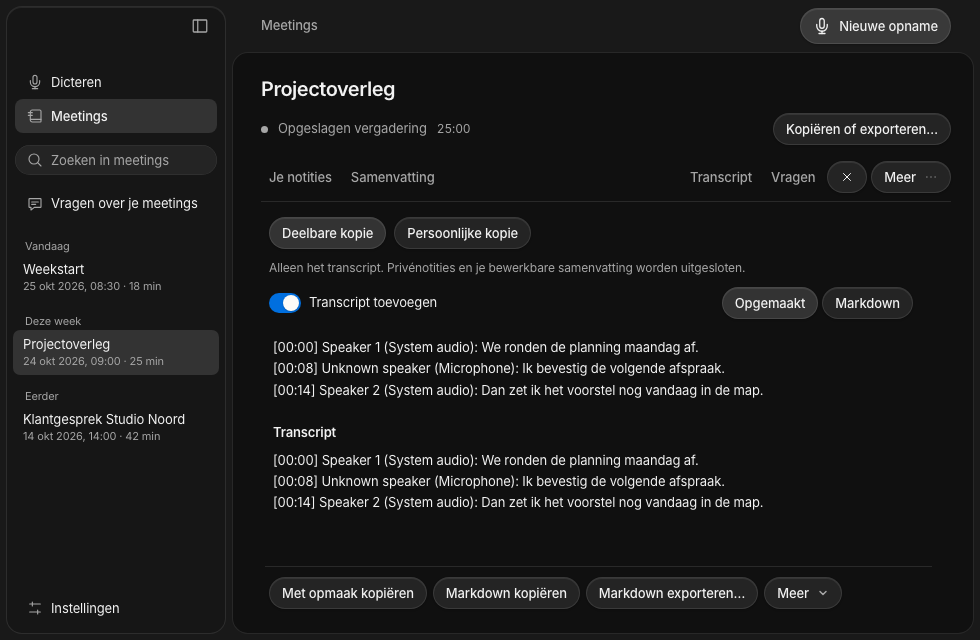
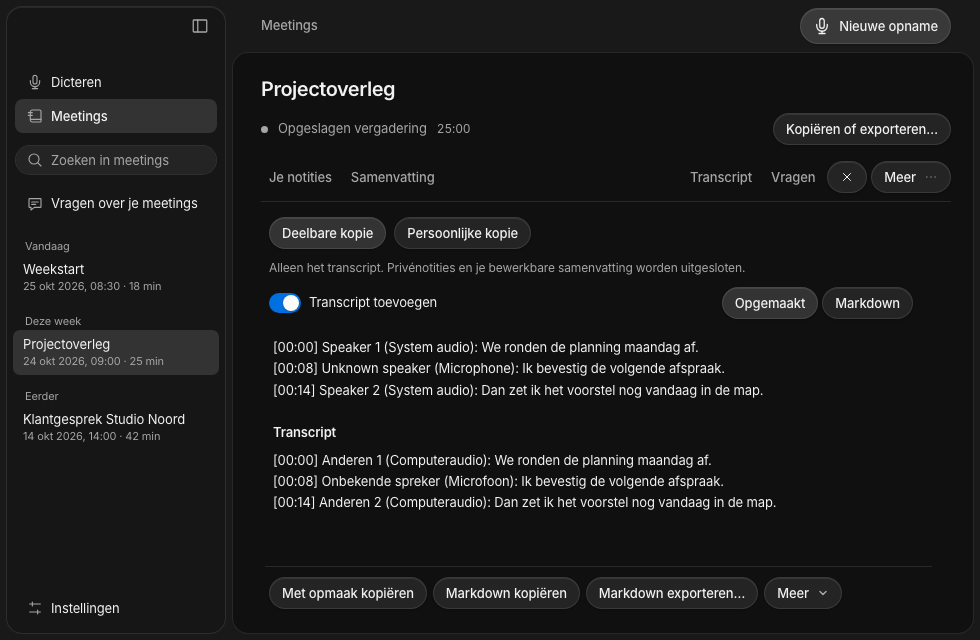
docs: retain PR review fixes and fresh Preview evidence
Record localized export evidence and deterministic CI fixture repair without replacing earlier native receipts.

Tested: Core/frontend/backend/mobile checks, export captures, personal Preview verification and fixture stress.
Scope-risk: narrow
Confidence: high

Changed region(s): [[0.3367, 0.6875, 0.7959, 0.8125]]

diff --git a/pr-169/evidence.md b/pr-169/evidence.md
@@ -1,3 +1,39 @@
+# Final PR review evidence
+
+Merge review head: `672533113f70cf21b7c9274a758d1a688f8b9cf8`. Shipping-code Preview build: `87824e4f9575097e16d827b4312e7ff3706c6107`. The later change is confined to an existing `cfg(test)` fixture; the 39,352-byte production prefix is identical and all other files are unchanged. The machine-readable source comparison is retained beside this ledger.
+
+## Review and corrections
+
+Standards: one P2 localization issue fixed. App-owned appended export labels now follow caller EN/NL, while provider messages, source text, canonical names and generated summary bodies remain literal. Rich and legacy actual-request regressions cover both export locales under both saved UI languages. Independent standards and spec re-reviews found no remaining blockers.
+
+Fresh Windows CI passed its default suite, then exposed a pre-existing lean-test fixture race: the original one-shot packet could be dropped before physical admission or on queue contention. The first timeout poisoned the shared test lock, causing eight secondary failures. The failed job remains recorded at its original source/run. A deterministic negative control proved one dropped packet. The test-only correction parks the admitted worker before queue polling, feeds once and proves all samples were accepted, then executes every original configuration-change/no-retry assertion. It adds no packet retry, production change, raised inference deadline or poison recovery. All 33 lean speaker tests and 20 separate fail-fast exact-test processes passed; the full default suite again passed 1,075 tests. Both independent reviewers cleared the delta.
+
+## Current local verification
+
+Core Release build, 1,075 core tests (seven existing ignored), 17 typing tests, formatting and strict Clippy; desktop build and 409 frontend/fixture tests; 270 backend tests; mobile typecheck and 159 UI tests; language-policy/theme checks; 20 focused EN/NL light/dark export captures. All passed. Other earlier browser/native layout coverage below remains tied to its stated revisions.
+
[1 lines of base64/hex data omitted]
+
+Final-head hosted CI is the merge gate; its status snapshot is maintained separately. Owner UX decisions remain open.
+
+## Historical implementation evidence
+
+The following earlier evidence is retained verbatim at its original source revisions and is not an exact-head native test claim.
+
+# PR review and merge verification
+
+Review head: `87824e4f9575097e16d827b4312e7ff3706c6107`.
+
+## Independent review
+
+Standards found one P2: shareable export labels ignored the caller's interface language. The correction localizes only appended display labels using existing core/catalog helpers and an empty alias list. Canonical provider messages, exact source words, canonical manual names, saved transcript bytes and privacy/freshness checks remain unchanged. English and Dutch caller locales are tested under both saved UI languages. The independent standards and spec re-reviews found no remaining material blockers.
+
+The corrected head passes 1,075 core tests (seven existing ignored), 17 typing tests, core Release build/format/strict Clippy, 409 frontend/fixture tests and frontend build, 270 backend tests, mobile typecheck plus 159 mobile UI tests, language-policy checks and 20 focused EN/NL light/dark export captures. Fresh hosted checks and refreshed personal-team Preview verification are required before merge; their current snapshots/receipt are recorded separately.
+
+## Earlier implementation evidence
+
+The following implementation and capture history remains at its original source revisions. It must not be read as an exact-head native verification of the locale correction.
+
 # Desktop UX owner-review evidence
 
 Implementation head: `cab5f89c9179e4f45ca57bb23821bb95a163537f`. Product/native build: `2bf192afc661acfd63618c1487ae271ab1c514c8`; the final commit changes only review fixtures, their tests, the launcher and documentation. A source comparison confirms that core, desktop frontend/backend, dependencies, native services and assets are unchanged since that native build.
